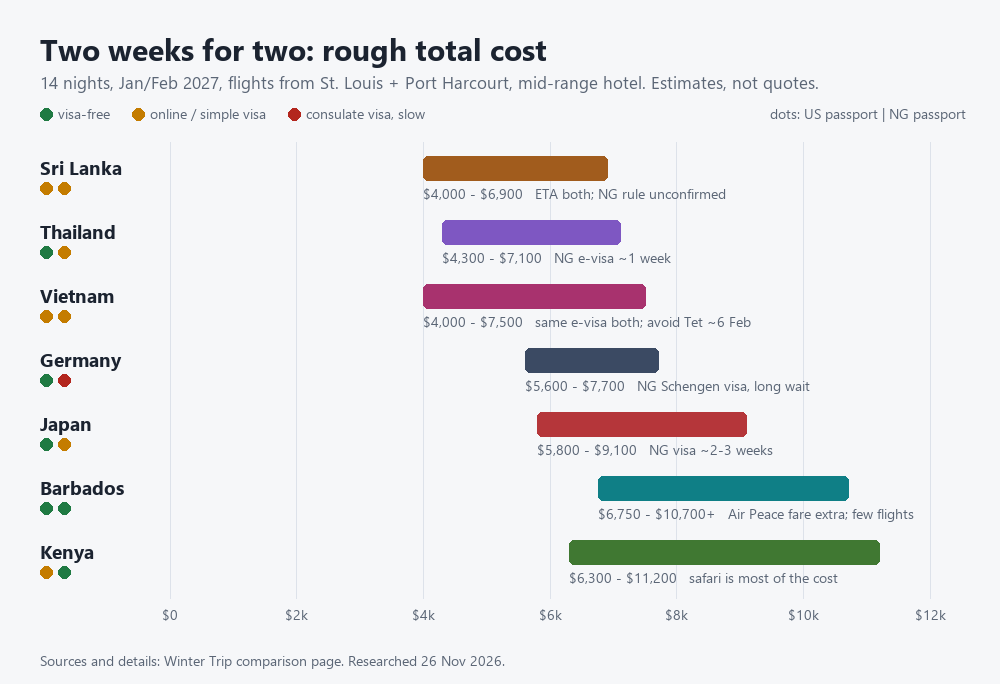
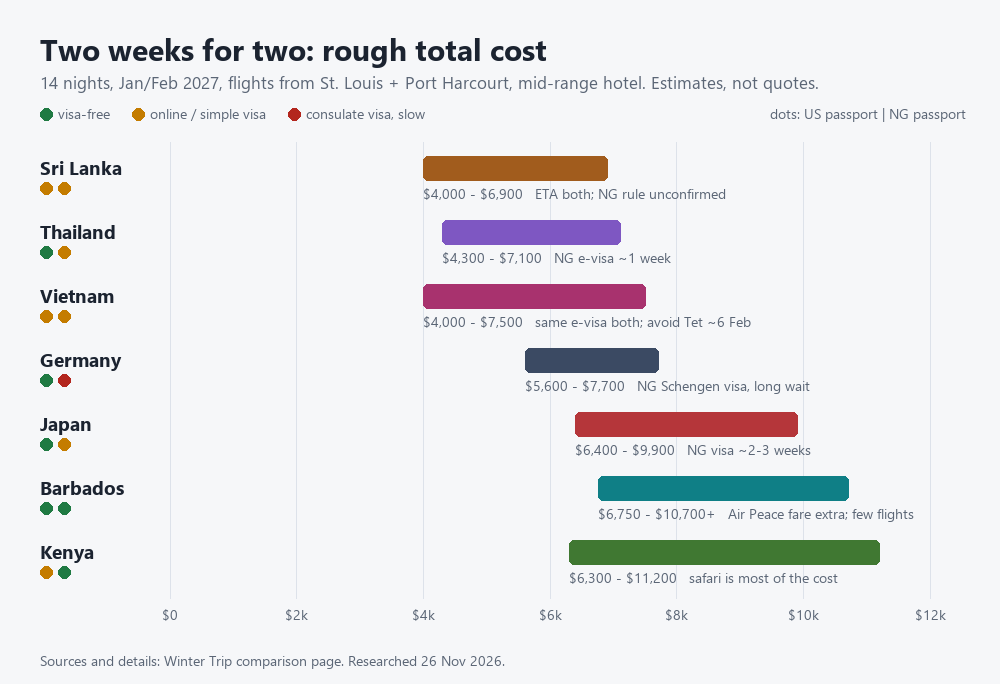
Add Japan as a full option on the Winter 2027 page

Changed region(s): [[0.527, 0.5833, 0.806, 0.6754]]

diff --git a/site/winter-2027.html b/site/winter-2027.html
@@ -49,7 +49,7 @@
     <span class="eyebrow">Researched 26 November 2026</span>
     <h2>The short version</h2>
     <ul>
-      <li><b>Japan is the strongest pick for two weeks.</b> Most to do, low daily costs, and winter suits it. The Nigerian passport needs a visa: apply in December for a February trip.</li>
+      <li><b>Japan is the strongest pick for two weeks.</b> Most to do, low daily costs, and winter suits it. The Nigerian passport needs a visa: apply in December for a February trip. <a href="#japan">Full plan below.</a></li>
       <li><b>Thailand is the best alternative.</b> No visa for the US passport, an online e-visa in about a week for the Nigerian one, low costs, and its best weather of the year. <a href="#thailand">Full plan below.</a></li>
       <li><b>Vietnam is the other easy one:</b> the same $25 online e-visa for both passports, low costs, and a north-to-south route that fills two weeks. Go in mid to late January or after mid-February to miss Tet (around 6 Feb 2027).</li>
       <li><b>Barbados is the easiest on visas</b> (none for either passport) but the most expensive, and its only practical flight from Nigeria runs once or twice a month.</li>
@@ -93,7 +93,7 @@
   </section>
 
   <figure class="figure">
-    <img src="winter-trip-costs.gif" width="1000" height="684" alt="Animated bar chart of rough 14-night totals for two people: Sri Lanka $4,000 to $6,900, Thailand $4,300 to $7,100, Vietnam $4,000 to $7,500, Germany $5,600 to $7,700, Japan $5,800 to $9,100, Barbados $6,750 to $10,700 plus the Air Peace fare, Kenya $6,300 to $11,200.">
+    <img src="winter-trip-costs.gif" width="1000" height="684" alt="Animated bar chart of rough 14-night totals for two people: Sri Lanka $4,000 to $6,900, Thailand $4,300 to $7,100, Vietnam $4,000 to $7,500, Germany $5,600 to $7,700, Japan $6,400 to $9,900, Barbados $6,750 to $10,700 plus the Air Peace fare, Kenya $6,300 to $11,200.">
     <figcaption class="small">The seven main options, cheapest first. Dots show visa status for the US and Nigerian passports.</figcaption>
   </figure>
 
@@ -110,11 +110,11 @@
         <tr><th>Nigerian passport</th>
           <td><span class="chip b">Schengen visa</span> About €90 plus centre fees, applied for in Lagos. Appointment waits of 6 to 8 weeks are reported, and refusals are common.</td>
           <td><span class="chip g">No visa</span> Up to 6 months. Carry the yellow fever card. Same online form.</td>
-          <td><span class="chip w">Japan visa</span> About NGN 31,300 single entry, through the VFS centres in Lagos or Abuja. About 12 to 14 working days.</td></tr>
+          <td><span class="chip w">Japan visa</span> Through the VFS centres in Lagos or Abuja, about 12 to 14 working days. Fee about NGN 31,300, though Japan raised visa fees in July 2026 (about ¥15,000); confirm. <a href="#japan">Documents below.</a></td></tr>
         <tr><th>From Port Harcourt</th>
           <td>Lufthansa sells PHC to Frankfurt; Jan 2027 round trips listed from about <b>$1,320</b>.</td>
           <td>Domestic hop to Lagos, then <a href="#air-peace">Air Peace</a> Lagos to Barbados via Antigua. Only one or two flights a month; fare not published. A 14-night stay may not fit its schedule.</td>
-          <td>Via Doha, Dubai or Addis Ababa. No fare found; expect <b>$1,500 to $2,500</b> (estimate). 24 h+.</td></tr>
+          <td>PHC to Lagos, then Qatar, Emirates or Ethiopian: about <b>$1,400 to $1,950</b> with the domestic hop. 24 h+.</td></tr>
         <tr><th>From St. Louis</th>
           <td>One stop. About <b>$650 to $900</b> round trip.</td>
           <td>One stop. About <b>$450 to $900</b>; February is peak.</td>
@@ -127,11 +127,12 @@
           <td>$150 to $200 a day: <b>$2,100 to $2,800</b></td>
           <td>$200 to $300 a day: <b>$2,800 to $4,200</b></td>
           <td>$150 to $200 a day: <b>$2,100 to $2,800</b></td></tr>
-        <tr><th>Visa fees</th><td>About $100 to $200</td><td>$0</td><td>About $25 to $60</td></tr>
+        <tr><th>Trains, domestic flights, extras</th><td>Rail between cities: in daily costs</td><td>None needed</td><td>Trains, one flight to Sapporo, a ryokan night: <b>$700 to $1,300</b></td></tr>
+        <tr><th>Visa fees</th><td>About $100 to $200</td><td>$0</td><td>About $25 to $100</td></tr>
         <tr><th>Rough total for 2</th>
           <td><b>$5,600 to $7,700</b> <span class="chip g">Cheapest</span></td>
           <td><b>$6,750 to $10,700</b> plus the Air Peace fare <span class="chip b">Priciest</span></td>
-          <td><b>$5,800 to $9,100</b></td></tr>
+          <td><b>$6,400 to $9,900</b></td></tr>
         <tr><th>Weather</th>
           <td>-2 to 4 °C, grey, 8 to 10 h of daylight</td>
           <td>25 to 30 °C, dry season</td>
@@ -153,7 +154,56 @@
       <div class="card"><h3 class="c-bb">Barbados</h3>
         <p class="small">Two bases: the calm west coast for beaches, catamarans and turtles, then the rugged east coast or the livelier south. Harrison's Cave, rum distilleries, Oistins fish fry, Holetown Festival in mid-February.</p></div>
       <div class="card"><h3 class="c-jp">Japan</h3>
-        <p class="small">Tokyo (5 nights), Hakone hot springs (2), Kyoto and Nara (4), then Sapporo for the Snow Festival and skiing (3). Plum blossoms open late February. Lunar New Year (6 Feb 2027) brings crowds that week.</p></div>
+        <p class="small">Tokyo (5 nights), Hakone hot springs (2), Kyoto and Nara (4), then Sapporo for the Snow Festival, 4 to 11 Feb 2027 (3). <a href="#japan">Full plan below.</a></p></div>
+    </div>
+  </section>
+
+  <section class="stack" id="japan">
+    <h2 class="c-jp">Japan in detail</h2>
+    <p>Winter is Japan's clearest season: dry air, the best views of Mount Fuji, hot springs at their best, snow in the north, and cheaper hotels than spring. Time the trip to include <b>4 to 11 February 2027</b> to catch the Sapporo Snow Festival.</p>
+    <div class="cards cards-2">
+      <div class="card">
+        <h3>Two-week route</h3>
+        <ul class="small">
+          <li><b>Tokyo, 5 nights.</b> Asakusa and Senso-ji, Shibuya Crossing, teamLab, Tsukiji outer market, a sumo stable morning practice, a day trip to Nikko or Kamakura.</li>
+          <li><b>Hakone, 2 nights.</b> A ryokan with its own hot spring and a kaiseki dinner, the ropeway over the volcanic valley, Lake Ashi with Fuji behind it.</li>
+          <li><b>Kyoto, 4 nights.</b> Fushimi Inari at sunrise, Kiyomizu-dera, Gion in the evening, Arashiyama bamboo, a day in Nara with the deer. Plum blossoms start late February.</li>
+          <li><b>Sapporo, 3 nights.</b> Snow sculptures at Odori Park, Susukino ice carvings, a day in Otaru's canal town, or a ski day at Niseko. Fly home via Tokyo.</li>
+          <li class="small">Not going in Snow Festival week? Swap Sapporo for Kanazawa and the snowy thatched village of Shirakawa-go.</li>
+        </ul>
+      </div>
+      <div class="card">
+        <h3>Costs for 2, 14 nights</h3>
+        <ul class="small">
+          <li>Flights: St. Louis about $1,100 to $1,650; Port Harcourt via Lagos about $1,400 to $1,950.</li>
+          <li>Hotels: $80 to $150 a night, <b>$1,120 to $2,100</b>. Sapporo doubles during the festival: book early.</li>
+          <li>Food, metro, sights: $150 to $200 a day, <b>$2,100 to $2,800</b>.</li>
+          <li>Trains, the flight to Sapporo, the Hakone ryokan upgrade: <b>$700 to $1,300</b>.</li>
+          <li>Nigerian visa: $25 to $100. Japan's ¥3,000 departure tax is already in airline tickets.</li>
+          <li><b>Total: about $6,400 to $9,900.</b></li>
+        </ul>
+      </div>
+      <div class="card">
+        <h3>The Nigerian visa</h3>
+        <ul class="small">
+          <li>Apply at the <b>VFS Japan Visa Application Centre</b> in Lagos or Abuja (closed weekends and Nigerian holidays). About 12 to 14 working days.</li>
+          <li>Bring: passport with 2 blank pages, the signed application form, a photo, a <b>flight itinerary</b> with flight numbers and times, and recent bank statements.</li>
+          <li>A hotel booking is <b>not</b> required to apply.</li>
+          <li>Self-employed or not working: add a self-introduction letter.</li>
+          <li><b>If the US traveller is paying</b>, include their bank statement too; the embassy asks for the payer's.</li>
+          <li>For an 18 January start, apply by about 19 December; for the Snow Festival, by early January.</li>
+        </ul>
+      </div>
+      <div class="card">
+        <h3>Tips</h3>
+        <ul class="small">
+          <li>Skip the 14-day Japan Rail Pass (¥80,000 each). For this route, single tickets plus one flight cost less.</li>
+          <li>Load a Suica or Pasmo card on your phone for trains, buses and convenience stores.</li>
+          <li>Pack for cold: Tokyo 2 to 10 °C, Sapporo well below freezing. Shoes with grip for icy pavements.</li>
+          <li>Lunar New Year week (around 6 Feb) is busier in Tokyo and Kyoto.</li>
+          <li>Fill in Visit Japan Web before flying for a faster arrival.</li>
+        </ul>
+      </div>
     </div>
   </section>
 
@@ -254,7 +304,7 @@
       </div>
       <div class="card">
         <h3><span class="c-jp">Japan</span> + <span class="c-th">Thailand</span></h3>
-        <p class="small">Snow and hot springs for 7 nights, then beaches for 7. Bangkok to Tokyo is about 6 hours. Only worth it if the Nigerian Japan visa is in hand; costs land near Japan alone, about <b>$5,500 to $8,800</b>.</p>
+        <p class="small">Snow and hot springs for 7 nights, then beaches for 7. Bangkok to Tokyo is about 6 hours. Only worth it if the Nigerian Japan visa is in hand; a little under Japan alone, about <b>$5,800 to $9,000</b>.</p>
       </div>
     </div>
   </section>
@@ -362,7 +412,10 @@
       <div class="card"><h3 class="c-jp">Japan</h3><ul class="small">
         <li><a href="https://www.japan.travel/en/">Japan National Tourism Organization</a></li>
         <li><a href="https://www.ng.emb-japan.go.jp/itpr_en/00_000092.html">Embassy of Japan in Nigeria (visa)</a></li>
-        <li><a href="https://www.vjw.digital.go.jp/">Visit Japan Web (arrival form)</a></li></ul></div>
+        <li><a href="https://www.vjw.digital.go.jp/">Visit Japan Web (arrival form)</a></li>
+        <li><a href="https://visa.vfsglobal.com/one-pager/japan/nigeria/english/">VFS Japan visa centres in Nigeria</a></li>
+        <li><a href="https://visa.vfsglobal.com/one-pager/japan/nigeria/english/pdf/tourist-document-required-guidelines.pdf">Tourist visa document checklist (PDF)</a></li>
+        <li><a href="https://www.snowfes.com/">Sapporo Snow Festival</a></li></ul></div>
       <div class="card"><h3 class="c-th">Thailand</h3><ul class="small">
         <li><a href="https://www.tourismthailand.org/">Tourism Authority of Thailand</a></li>
         <li><a href="https://www.thaievisa.go.th/">Thai e-visa (official)</a></li>
@@ -389,6 +442,7 @@
     US and UK rules: <a href="https://guardian.ng/nigerian/are-nigerians-allowed-to-travel-to-the-usa/">The Guardian Nigeria</a>, <a href="https://thesun.ng/uk-unveils-new-visa-transit-rules-for-nigeria-11-others/">The Sun Nigeria</a> ·
     Fares: <a href="https://www.lufthansa.com/lhg/ng/en/o-d/cy-cy/port-harcourt-frankfurt">Lufthansa</a>, <a href="https://www.jal.co.jp/flights/en-us/flights-from-saint-louis-1-to-tokyo">JAL</a>, <a href="https://www.ratepunk.com/flights-from-to/STL/FRA/cheap-flights-from-st-louis-to-frankfurt">Ratepunk</a>, <a href="https://www.farecompare.com/flights/St_Louis-STL/Barbados-BGI/market.html">FareCompare</a> ·
     Alternatives: <a href="https://www.cliffedekkerhofmeyr.com/en/news/publications/2025/Sectors/Immigration-Law/immigration-law-alert-24-july-kenya-Kenya-amends-immigration-rules-broadens-eTA-exemptions-for-African-and-other-nationals">Kenya eTA (CDH)</a>, <a href="https://visamanager.io/nationalities/thailand-visa-for-nigerians">Thailand for Nigerians</a>, <a href="https://www.legit.ng/world/1731044-thailand-ends-60-day-visa-exemption-2026-what-travellers/">Thailand 30-day rule</a>, <a href="https://visa-rules.com/visa/ng/ae/">UAE for Nigerians</a> ·
+    Japan: <a href="https://visa.vfsglobal.com/one-pager/japan/nigeria/english/pdf/tourist-document-required-guidelines.pdf">embassy document guidance</a>, <a href="https://www.mytravelready.ai/blog/nigeria-japan-visa-guide-2026">2026 visa guide</a>, <a href="https://www.expedia.com/cn/lp/flights/los/hnd/lagos-to-tokyo">Lagos fares</a>, <a href="https://flights.idealo.com/route/Lagos-LOS/Tokyo-TYO/">idealo Lagos-Tokyo</a>, <a href="https://www.japantimes.co.jp/news/2026/07/01/japan/tourist-tax-increase/">departure tax</a>, <a href="https://selfguidejapan.com/blog/japan-rail-pass-price-2026">rail pass prices</a>, <a href="https://japancheapo.com/events/sapporo-snow-festival/">Snow Festival 2027 dates</a> ·
     Thailand: <a href="https://www.aa.com/en-us/flights-from-st-louis-to-bangkok">STL fares</a>, <a href="https://www.swiss.com/lhg/us/en/o-d/cy-cy/saint-louis-bangkok">Swiss STL-BKK</a>, <a href="https://www.expedia.com/lp/flights/los/bkk/lagos-to-bangkok">Lagos fares</a>, <a href="https://www.kayak.com/flight-routes/Lagos-Murtala-Muhammed-LOS/Bangkok-Suvarnabhumi-BKK">Kayak Lagos-Bangkok</a>, <a href="https://thethaiger.com/guides/visa-information/everything-you-need-to-enter-thailand-in-2024">entry rules</a>, <a href="https://blog.wego.com/thailand-tourist-entry-fee-2026/">entry fee status</a>, <a href="https://e.vnexpress.net/news/travel/thailand-plans-13-tourist-entry-fee-starting-2027-5110869.html">2027 fee plan</a>, <a href="https://www.roughguides.com/thailand/when-to-go/january">January weather</a>, <a href="https://thaiest.com/thailand/weather/month/january">coasts in January</a> ·
     Vietnam: <a href="https://en.wikipedia.org/wiki/Visa_policy_of_Vietnam">visa policy</a>, <a href="https://evisas.io/visa-requirements/ng/vn">for Nigerians</a>, <a href="https://hellosafe.com/visa/vietnam-evisa">e-visa for US</a>, <a href="https://www.skyscanner.com/routes/los/sgn/lagos-to-ho-chi-minh-city.html">Lagos fares</a>, <a href="https://www.aa.com/en-us/flights-from-st-louis-to-vietnam">STL fares</a>, <a href="https://www.roughguides.com/vietnam/when-to-go/january/">January weather</a>, <a href="https://www.vietnamtourism.com/en/budget">budget</a> ·
     More places: <a href="https://visa-rules.com/visa/ng/ie/">Ireland</a>, <a href="https://www.klook.com/en-US/blog/china-visa-free-us-citizens/">China</a>, <a href="https://www.flydestinations.com.ng/visa-requirement/morocco-evisa-requirements-nigerians-2026/">Morocco</a> ·

diff --git a/site/changes.html b/site/changes.html
@@ -44,6 +44,7 @@
   <section class="change-day">
     <h3><time datetime="2026-11-26">November 26, 2026</time></h3>
     <ul>
+      <li><b>Japan added as a full option.</b> A two-week Tokyo, Hakone, Kyoto and Sapporo route timed for the Snow Festival (4 to 11 Feb 2027), the Nigerian visa documents, updated flights, and trains and the ryokan now counted in the cost.</li>
       <li><b>Pick for us.</b> An interactive picker on the Winter 2027 page: set dates, nights, hotel level and what matters most, and the seven destinations re-rank with costs for two, the latest safe date to start visas, and holidays or festivals inside your dates.</li>
       <li><b>Thailand added as a full option.</b> A two-week Bangkok, Chiang Mai, Krabi and Koh Lanta route, updated flights and costs, the digital arrival card, entry-fee status and timing tips.</li>
       <li><b>Twin-centre ideas and a booking checklist.</b> Thailand + Vietnam, Sri Lanka + the Maldives, Kenya + Lamu, Japan + Thailand, and the steps to take whichever place wins.</li>

diff --git a/site/styles.css b/site/styles.css
@@ -67,6 +67,7 @@ tbody th { font-weight: 600; color: var(--muted); width: 170px; font-size: .85re
 .chip { display: inline-block; font-size: .75rem; font-weight: 600; padding: 1px 8px; border-radius: 99px; margin-right: 4px; white-space: nowrap; }
 .g { background: var(--chip-good); color: var(--good); } .w { background: var(--chip-warn); color: var(--warn); } .b { background: var(--chip-bad); color: var(--bad); }
 .cards { display: grid; grid-template-columns: repeat(auto-fit, minmax(280px, 1fr)); gap: 16px; }
+.cards-2 { grid-template-columns: repeat(auto-fit, minmax(min(100%, 420px), 1fr)); }
 .card { background: var(--panel); border: 1px solid var(--line); border-radius: 8px; padding: 18px; display: grid; gap: 10px; align-content: start; min-width: 0; }
 .card ul, .note ul { margin: 0; padding-left: 18px; display: grid; gap: 4px; }
 .trip-card { text-decoration: none; color: inherit; }

diff --git a/site/index.html b/site/index.html
@@ -58,7 +58,7 @@
   </section>
 
   <figure class="figure">
-    <img src="winter-trip-costs.gif" width="1000" height="684" alt="Animated bar chart of rough 14-night totals for two people: Sri Lanka $4,000 to $6,900, Thailand $4,300 to $7,100, Vietnam $4,000 to $7,500, Germany $5,600 to $7,700, Japan $5,800 to $9,100, Barbados $6,750 to $10,700 plus the Air Peace fare, Kenya $6,300 to $11,200.">
+    <img src="winter-trip-costs.gif" width="1000" height="684" alt="Animated bar chart of rough 14-night totals for two people: Sri Lanka $4,000 to $6,900, Thailand $4,300 to $7,100, Vietnam $4,000 to $7,500, Germany $5,600 to $7,700, Japan $6,400 to $9,900, Barbados $6,750 to $10,700 plus the Air Peace fare, Kenya $6,300 to $11,200.">
     <figcaption class="small">Winter 2027: rough total cost for two, cheapest first. Dots show visa status for each passport.</figcaption>
   </figure>
 

diff --git a/tools/make_gif.py b/tools/make_gif.py
@@ -14,7 +14,7 @@ DATA = [
     ("Thailand", 4300, 7100, (126, 87, 194), OK, WARN, "NG e-visa ~1 week"),
     ("Vietnam", 4000, 7500, (168, 50, 110), WARN, WARN, "same e-visa both; avoid Tet ~6 Feb"),
     ("Germany", 5600, 7700, (59, 74, 99), OK, BAD, "NG Schengen visa, long wait"),
-    ("Japan", 5800, 9100, (181, 54, 58), OK, WARN, "NG visa ~2-3 weeks"),
+    ("Japan", 6400, 9900, (181, 54, 58), OK, WARN, "NG visa ~2-3 weeks"),
     ("Barbados", 6750, 10700, (15, 127, 134), OK, OK, "Air Peace fare extra; few flights"),
     ("Kenya", 6300, 11200, (64, 120, 50), WARN, OK, "safari is most of the cost"),
 ]
